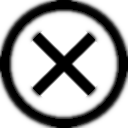
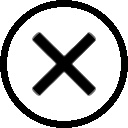
add a button to show/hide dev helper view and some minor changes

diff --git a/CompanionApp/Main.qml b/CompanionApp/Main.qml
@@ -8,8 +8,8 @@ ApplicationWindow {
 
     width: 640
     height: 480
-    minimumWidth: 320
-    minimumHeight: 240
+    minimumWidth: 640
+    minimumHeight: 480
     visible: true
     title: qsTr("Macropad Companion")
     color: "#222222"
@@ -49,12 +49,50 @@ ApplicationWindow {
             SplitView.minimumWidth: 200
             SplitView.maximumWidth: 300
             width: 280
-            visible: isDebugInstance
+            visible: false
         }
 
         Item {
             id: deviceViewContainer
             objectName: "deviceViewContainer"
+        }
+    }
+
+    Popup {
+        id: devHelperOverlay
+
+        margins: 0
+        padding: 0
+        modal: false
+        dim: false
+        focus: true
+        closePolicy: Popup.NoAutoClose
+        visible: isDebugInstance
+        parent: Overlay.overlay
+
+        x: 16
+        y: mainWindow.height - height - 16
+
+        width: expandDevButton.width
+        height: expandDevButton.height
+
+        background: Rectangle {
+            color: "transparent"
+            border.width: 0
+        }
+
+        CIconButton {
+            id: expandDevButton
+
+            iconName: "qrc:///resources/sliders_icon.png"
+            toolTipText: "Expand dev helper view"
+            buttonSize: 32
+
+            anchors.centerIn: parent
+
+            onButtonClicked: {
+                devHelperViewContainer.visible = !devHelperViewContainer.visible;
+            }
         }
     }
 }

diff --git a/CompanionApp/DeviceSearchHeader.qml b/CompanionApp/DeviceSearchHeader.qml
@@ -14,6 +14,12 @@ Rectangle {
 
     color: "#2d2d2d"
 
+    function onSearchRequested() {
+        if (vid.acceptableInput && pid.acceptableInput) {
+            searchClicked(vid.text, pid.text);
+        }
+    }
+
     RowLayout {
         id: mainLayout
 
@@ -33,6 +39,10 @@ Rectangle {
             Layout.fillWidth: true
 
             placeholder: qsTr("Vendor ID")
+
+            onInputAccepted: (value) => {
+                onSearchRequested();
+            }
         }
 
         Rectangle {
@@ -49,6 +59,10 @@ Rectangle {
             Layout.fillWidth: true
 
             placeholder: qsTr("Product ID")
+
+            onInputAccepted: (value) => {
+                onSearchRequested();
+            }
         }
 
         Item {
@@ -61,9 +75,10 @@ Rectangle {
 
             iconName: "qrc:///resources/search_icon.png"
             toolTipText: "Search for this device"
+            iconPadding: 8
 
             onButtonClicked: {
-                searchClicked(vid.text, pid.text);
+                onSearchRequested();
             }
         }
     }

diff --git a/CompanionApp/CIconButton.qml b/CompanionApp/CIconButton.qml
@@ -1,5 +1,6 @@
 import QtQuick 2.15
 import QtQuick.Controls.Basic 2.15
+import Qt5Compat.GraphicalEffects
 
 
 Button {
@@ -8,16 +9,27 @@ Button {
     signal buttonClicked
     property string iconName
     property string toolTipText
-    property int size: 32
+    property int buttonSize: 32
+    property int iconPadding: 4
 
-    icon.color: "#d9e7cb"
-    icon.source: iconName
-    icon.width: size / 2
-    icon.height: size / 2
+    Image {
+        id: iconImage
+        anchors.centerIn: parent
+        source: iconName
+        width: buttonSize - iconPadding * 2
+        height: buttonSize - iconPadding * 2
+        mipmap: true
+    }
+
+    ColorOverlay {
+        anchors.fill: iconImage
+        source: iconImage
+        color: "#d9e7cb"
+    }
 
     background: Rectangle {
-        implicitWidth: size
-        implicitHeight: size
+        implicitWidth: buttonSize
+        implicitHeight: buttonSize
         color: button.down ? "#484848"
                            : button.hovered ? "#4d4d4d" : "transparent"
         border.width: 0

diff --git a/CompanionApp/DeviceListDelegate.qml b/CompanionApp/DeviceListDelegate.qml
@@ -52,7 +52,8 @@ Rectangle {
 
             iconName: "qrc:///resources/info_icon.png"
             toolTipText: "See details"
-            size: 28
+            buttonSize: 28
+            iconPadding: 6
 
             onButtonClicked: {
                 popup.openAt(mapToItem(parent, deviceEntry.x, deviceEntry.y));
@@ -133,7 +134,8 @@ Rectangle {
 
                     iconName: "qrc:///resources/close_icon.png"
                     toolTipText: ""
-                    size: 28
+                    buttonSize: 28
+                    iconPadding: 6
 
                     onButtonClicked: {
                         popup.close();

diff --git a/CompanionApp/CTextField.qml b/CompanionApp/CTextField.qml
@@ -20,12 +20,20 @@ TextField {
         implicitWidth: 200
         implicitHeight: 40
         color: "transparent"
-        border.color: "transparent"
+        border.color: "red"
+        border.width: acceptableInput ? 0 : 1
     }
 
     onAccepted: {
         if (acceptableInput || text.length === 0) {
             textField.inputAccepted(text);
         }
+    }
+
+    ToolTip {
+        id: invalidInput
+        text: "Input is not valid! Either leave the field empty or type a 4-digit hex number"
+        visible: !acceptableInput && textField.hovered
+        delay: 600
     }
 }

diff --git a/CompanionApp/DeviceConnectView.qml b/CompanionApp/DeviceConnectView.qml
@@ -63,7 +63,7 @@ Item {
                 ScrollBar.vertical: ScrollBar {
                     id: vScrollBar
                     active: true
-                    policy: ScrollBar.AsNeeded
+                    policy: listView.contentHeight > listView.height ? ScrollBar.AlwaysOn : ScrollBar.AlwaysOff
                     orientation: Qt.Vertical
 
                     contentItem: Rectangle {
